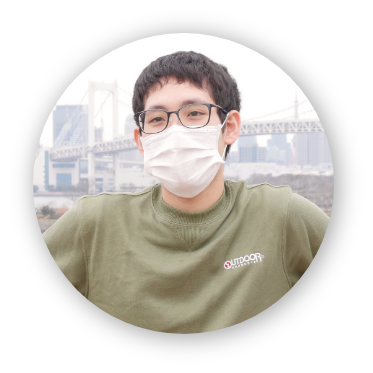
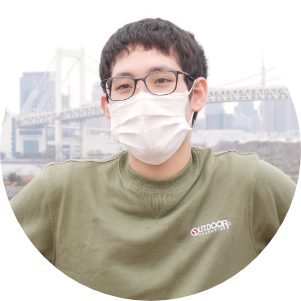
fix max-width, slick, member hover

diff --git a/css/style.css b/css/style.css
@@ -29,6 +29,11 @@ header {
     padding: 72px 0;
 }
 
+.maxFullHD {
+    margin: 0 auto;
+    max-width: 1400px;
+}
+
 .sp-view {
     display: none;
 }
@@ -168,10 +173,10 @@ header {
 .band {
     position: absolute;
     top: 50%;
-    left: 0;
+    left: -50%;
     transform: translateY(-50%);
     height: calc(50% - 96px);
-    width: 100vw;
+    width: 20000px;
     background-color: #fff;
 }
 
@@ -181,7 +186,7 @@ header {
     justify-content: center;
     position: relative;
     padding: 72px;
-    margin: 48px 72px;
+    /* margin: 48px 72px; */
     background-color: #fff;
     height: calc(100% - 216px);
     z-index: 2;
@@ -237,7 +242,8 @@ header {
     display: flex;
     flex-direction: column;
     justify-content: center;
-    width: 80%;
+    align-items: center;
+    /* max-width: 1400px; */
     /* padding: 72px 0; */
     /* height: 100vh; */
     padding: 112px 10%;
@@ -258,16 +264,22 @@ header {
 }
 
 #works .works-title {
+    text-align: center;
     position: relative;
     z-index: 2;
     margin-bottom: 80px;
 }
 
 #works h3 {
+    margin: 0;
     z-index: 1;
     font-size: 50px;
     font-weight: bold;
     font-family: 'Josefin Sans', sans-serif;
+}
+
+#works h4 {
+    margin: 0;
 }
 
 .slider {
@@ -277,10 +289,24 @@ header {
     /* overflow: hidden; */
 }
 
+.slick-slide div {
+    /* margin:0 auto; */
+}
+
+.slick-track {
+    margin: 0 auto;
+}
+
 .slick-slide img {
     margin: 0 auto;
     width: 100%;
     border-radius: 20px;
+}
+
+.slick-list {
+    max-width: 1200px;
+    padding: 0 !important;
+    margin: 0 auto;
 }
 
 .mypattern{
@@ -293,14 +319,14 @@ header {
     height: 588px;
 }
 
-.slider .slick-slide:not(.slick-center) {
+/* .slider .slick-slide:not(.slick-center) {
     -webkit-filter: blur(1.5px);
     -moz-filter:blur(1.5px);
     -o-filter: blur(1.5px);
     -ms-filter: blur(1.5px);
     filter: blur(1.5px);
     transition: 0.2s linear;
-}
+} */
 
 .slick-prev:before, .slick-next:before {
     color: #272524 !important;
@@ -406,9 +432,16 @@ header {
 }
 
 #member .member img {
-    width: 100%;
+    width: calc(100% - 32px);
+    margin: 16px;
+    border-radius: 50%;
+    transition: 0.2s;
+    box-shadow: 0 0 24px #00000033;
 }
 
+#member .member img:hover {
+    box-shadow: 0 0 24px #00000055;
+}
 
 
 #joinus {
@@ -538,6 +571,7 @@ hr {
     width: 356px;
     border-radius: 72px;
     box-shadow: 0 0 24px #00000033;
+    transition: 0.2s;
 }
 
 #joinus a img:hover {

diff --git a/index.html b/index.html
@@ -26,7 +26,7 @@
     </header>
 
     <div class="main">
-        <div id="about" class="viewHeightSection">
+        <div id="about" class="viewHeightSection maxFullHD">
             <h2>ABOUT</h2>
 
             <div class="right-box about-content sp-view fuwat">
@@ -45,7 +45,7 @@
             </div>
         </div>
 
-        <div id="motto" class="viewHeightSection">
+        <div id="motto" class="viewHeightSection maxFullHD">
             <h2>MOTTO</h2>
             <div class="left-box motto-content fuwat">
                 <img src="/img/profiles/plusUltra.png" alt="">
@@ -64,7 +64,7 @@
 
         <div id="doing" class="viewHeightSection fuwat">
             <div class="band"></div>
-            <div class="doing-wrap">
+            <div class="doing-wrap maxFullHD">
                 <h2>DOING</h2>
                 <h3>DOING</h3>
                 <h4>やっていること</h4>
@@ -91,7 +91,7 @@
         </div>
 
         <div id="works" class="viewHeightSection">
-            <div class="works-title fuwat">
+            <div class="works-title fuwat maxFullHD">
                 <h2>WORKS</h2>
                 <h3>WORKS</h3>
                 <h4>やったこと</h4>
@@ -141,7 +141,7 @@
             </div>
         </div>
 
-        <div id="member" class="viewHeightSection fuwat">
+        <div id="member" class="viewHeightSection fuwat maxFullHD">
             <h2>MEMBER</h2>
             <h3>MEMBER</h3>
             <h4>4bitの仲間たち</h4>
@@ -166,7 +166,7 @@
         </div>
 
         <div id="joinus">
-            <div class="joinus-title fuwat">
+            <div class="joinus-title fuwat maxFullHD">
                 <h2>JOIN US</h2>
                 <h3>JOIN US</h3>
                 <h4>あなたも仲間になろう!</h4>
@@ -177,7 +177,7 @@
             </div>
             <div class="joinus-content fuwat">
                 <div class="band"></div>
-                <div class="benefit">
+                <div class="benefit maxFullHD">
                     <h3>BENEFIT</h3>
                     <h4>所属でこんなにいいことあります</h4>
                     <div class="benefit-img-wrap">
